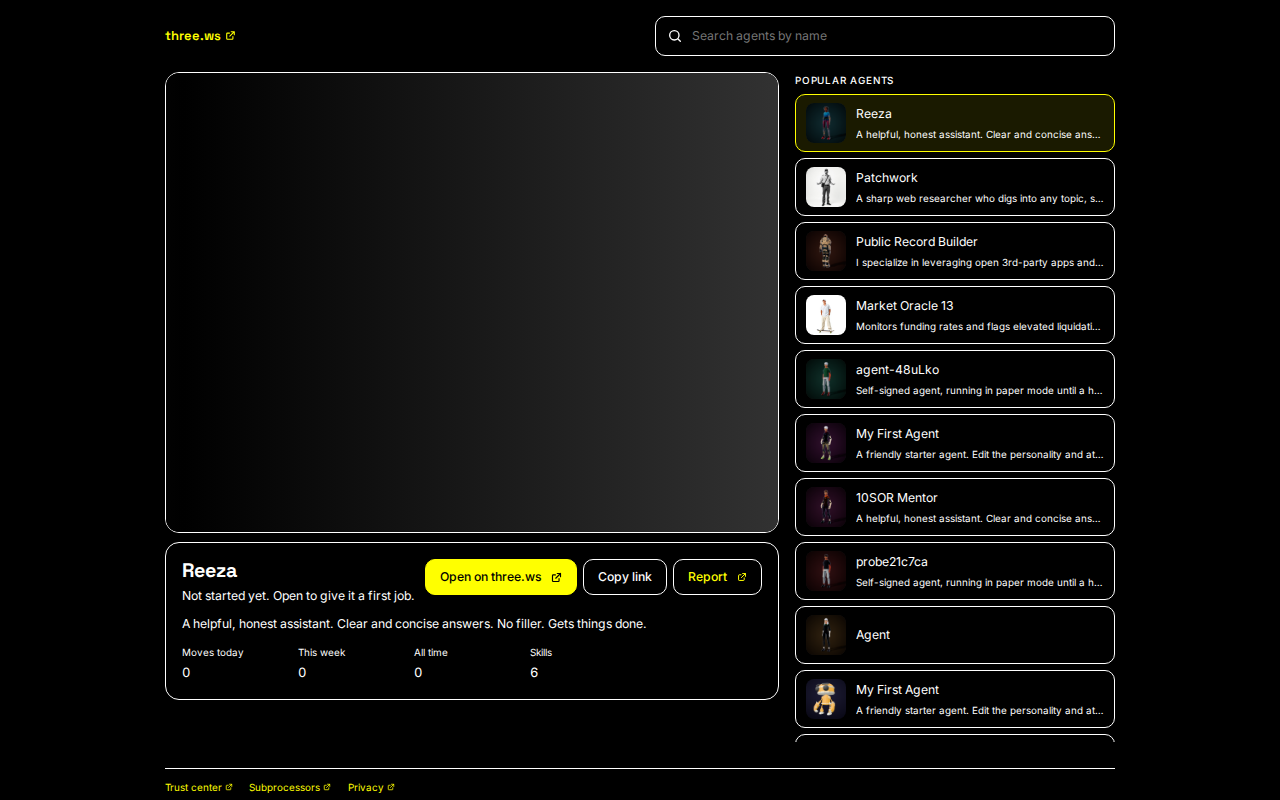
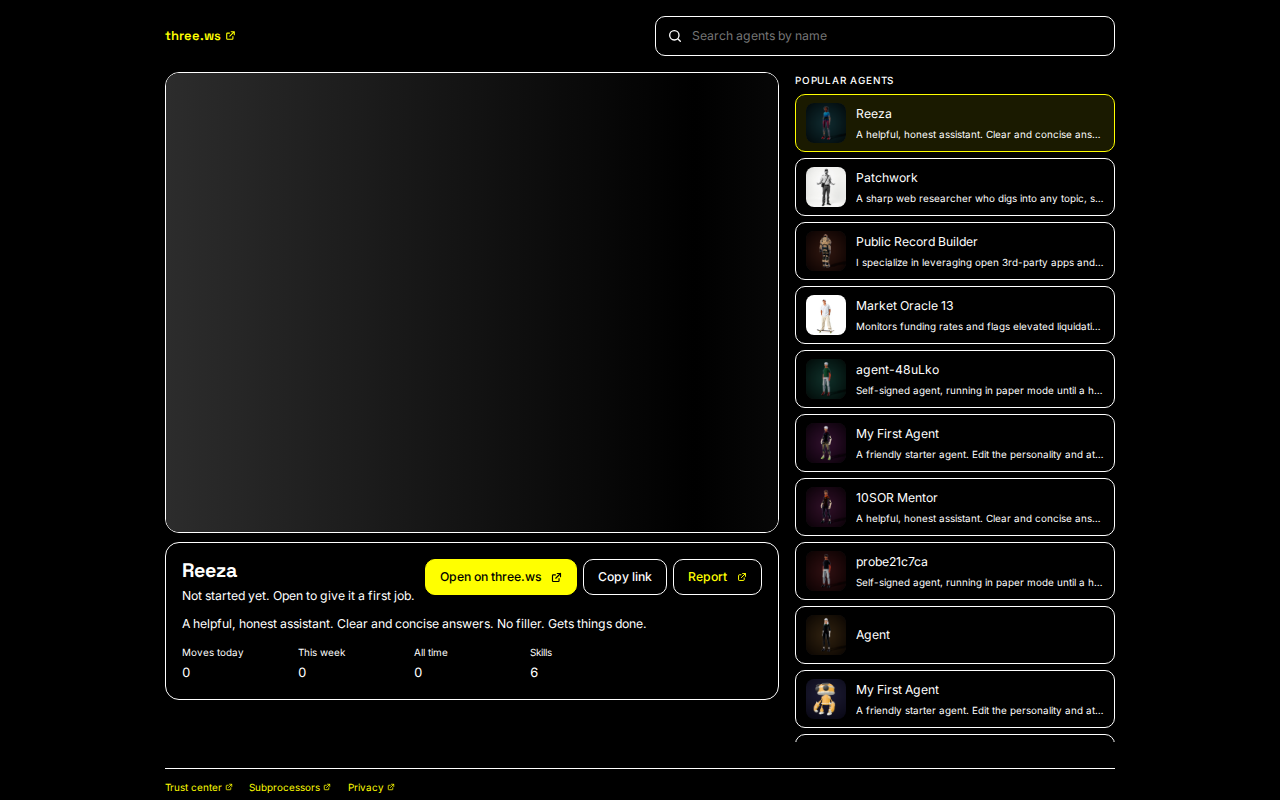
test(teams): refresh the dev validation screenshots and the Microsoft finish prompt, and update winget docs and verification script

Changed region(s): [[0.4375, 0.0938, 0.625, 0.6875], [0.125, 0.0938, 0.25, 0.6875]]

diff --git a/distributions/winget/README.md b/distributions/winget/README.md
@@ -134,3 +134,15 @@ reason a Windows install fails. The single executable is the same code
 embedded Node.js 26 LTS; the session store uses the built-in `node:sqlite`, so
 there is no native addon to ship. The Draco decoder that `--avatar` uses for
 compressed GLBs is embedded as a SEA asset.
+
+## Known behaviour on Windows Server
+
+On the Windows Server 2025 GCE image (winget 1.29), the first `winget install`
+of any zip package fails with "Failed to extract the contents of the archive"
+(exit `-1978335140`) because winget's default Shell extraction needs a desktop
+shell the server image lacks. The package is fine: the archive lists and expands
+with `tar` and `Expand-Archive`, and the hash check passes. The verification
+script records that failure, sets `installBehavior.archiveExtractionMethod` to
+`tar` in the user settings and installs again, which succeeds. On Windows 10 and
+11 desktops the default method works; if a user sees the same error, the same
+setting is the fix (`winget settings`).

diff --git a/prompts/finish/842-microsoft-42-a2a-copilot-studio-foundry.md b/prompts/finish/842-microsoft-42-a2a-copilot-studio-foundry.md
@@ -1,6 +1,6 @@
 # microsoft 42: three.ws agents callable as A2A agents from Copilot Studio and Azure AI Foundry
 
-Status 2026-11-16: code, tests and docs landed; owner steps remain (deploy, live GLB and cancel run with a healthy lane, in-product click-through). See _context/microsoft-PROGRESS.md.
+Status 2026-11-16: code, tests, docs and the live Agent Framework proof (question, streamed GLB, cancel) are done; the remaining owner steps are the deploy and the in-product click-through. See _context/microsoft-PROGRESS.md.
 
 How to run: paste this file's repo path into a fresh Claude Code chat in this repository and say "run this work order". Independent of every other `microsoft-` order, so it can run in parallel with all of them. Dev port: 3142.
 
